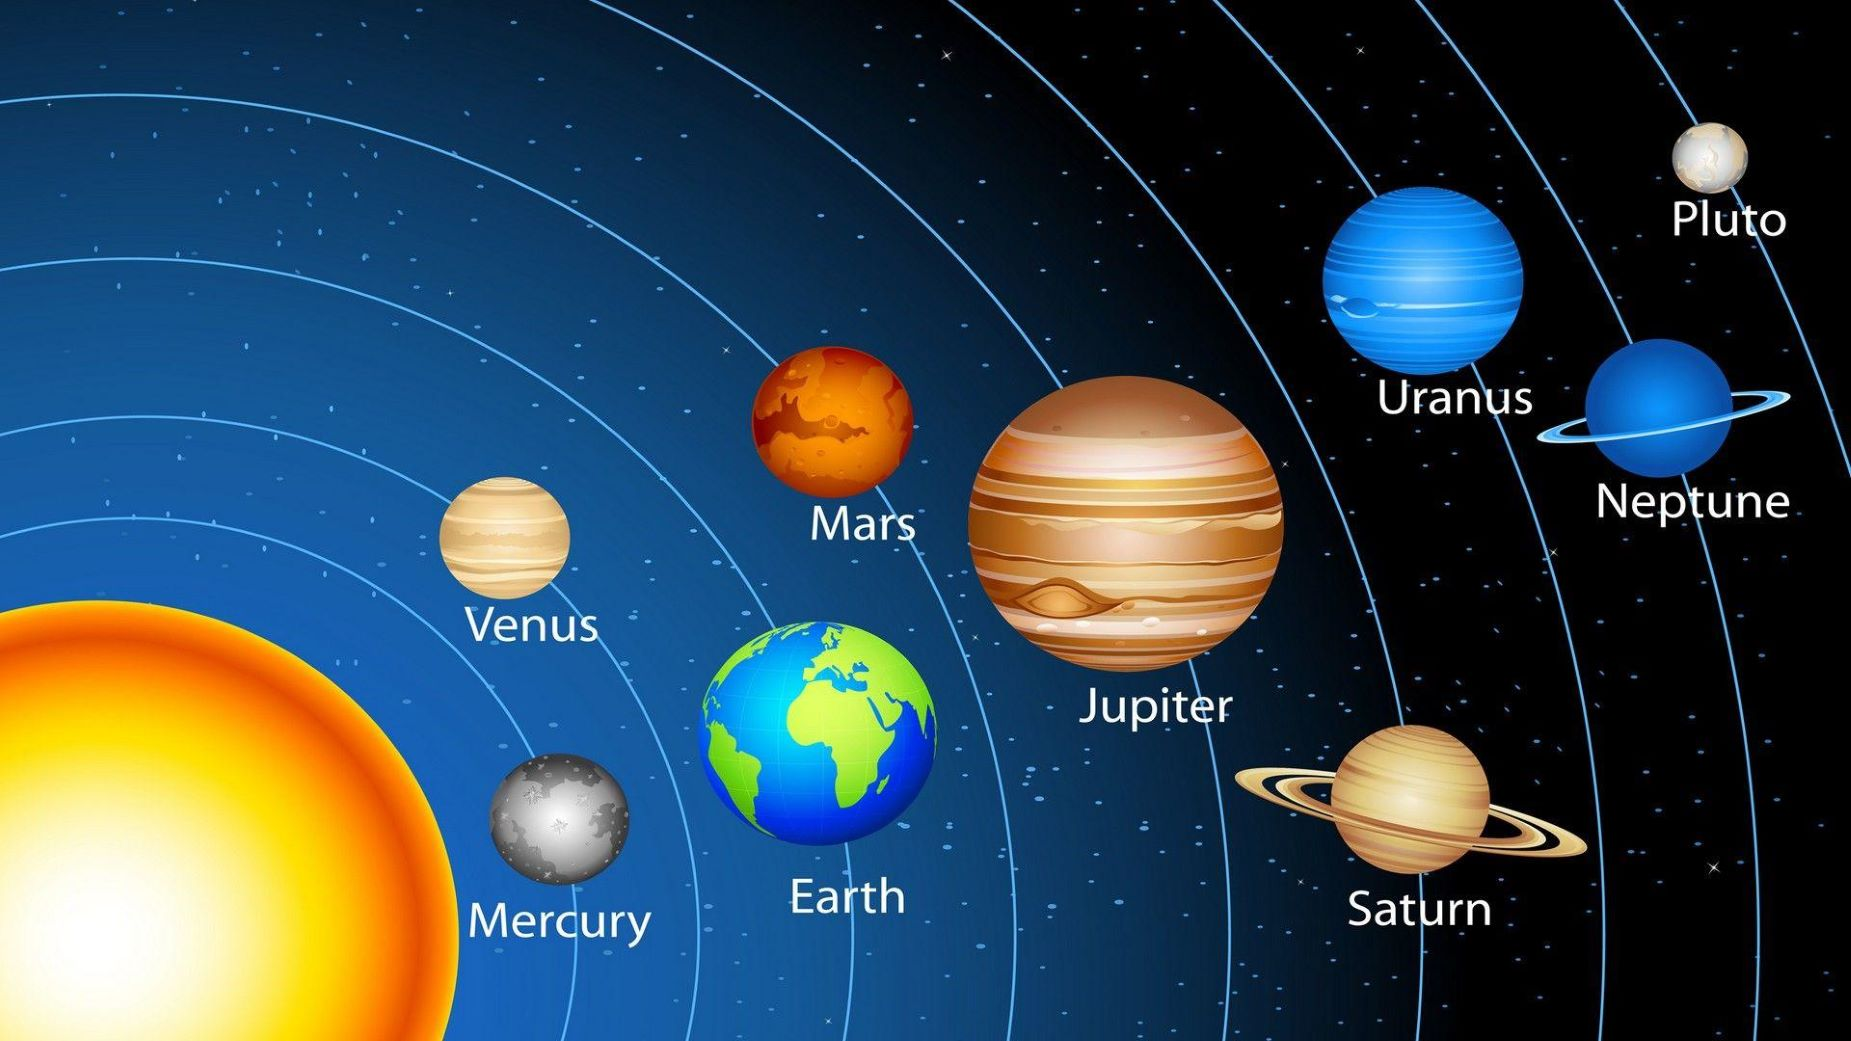
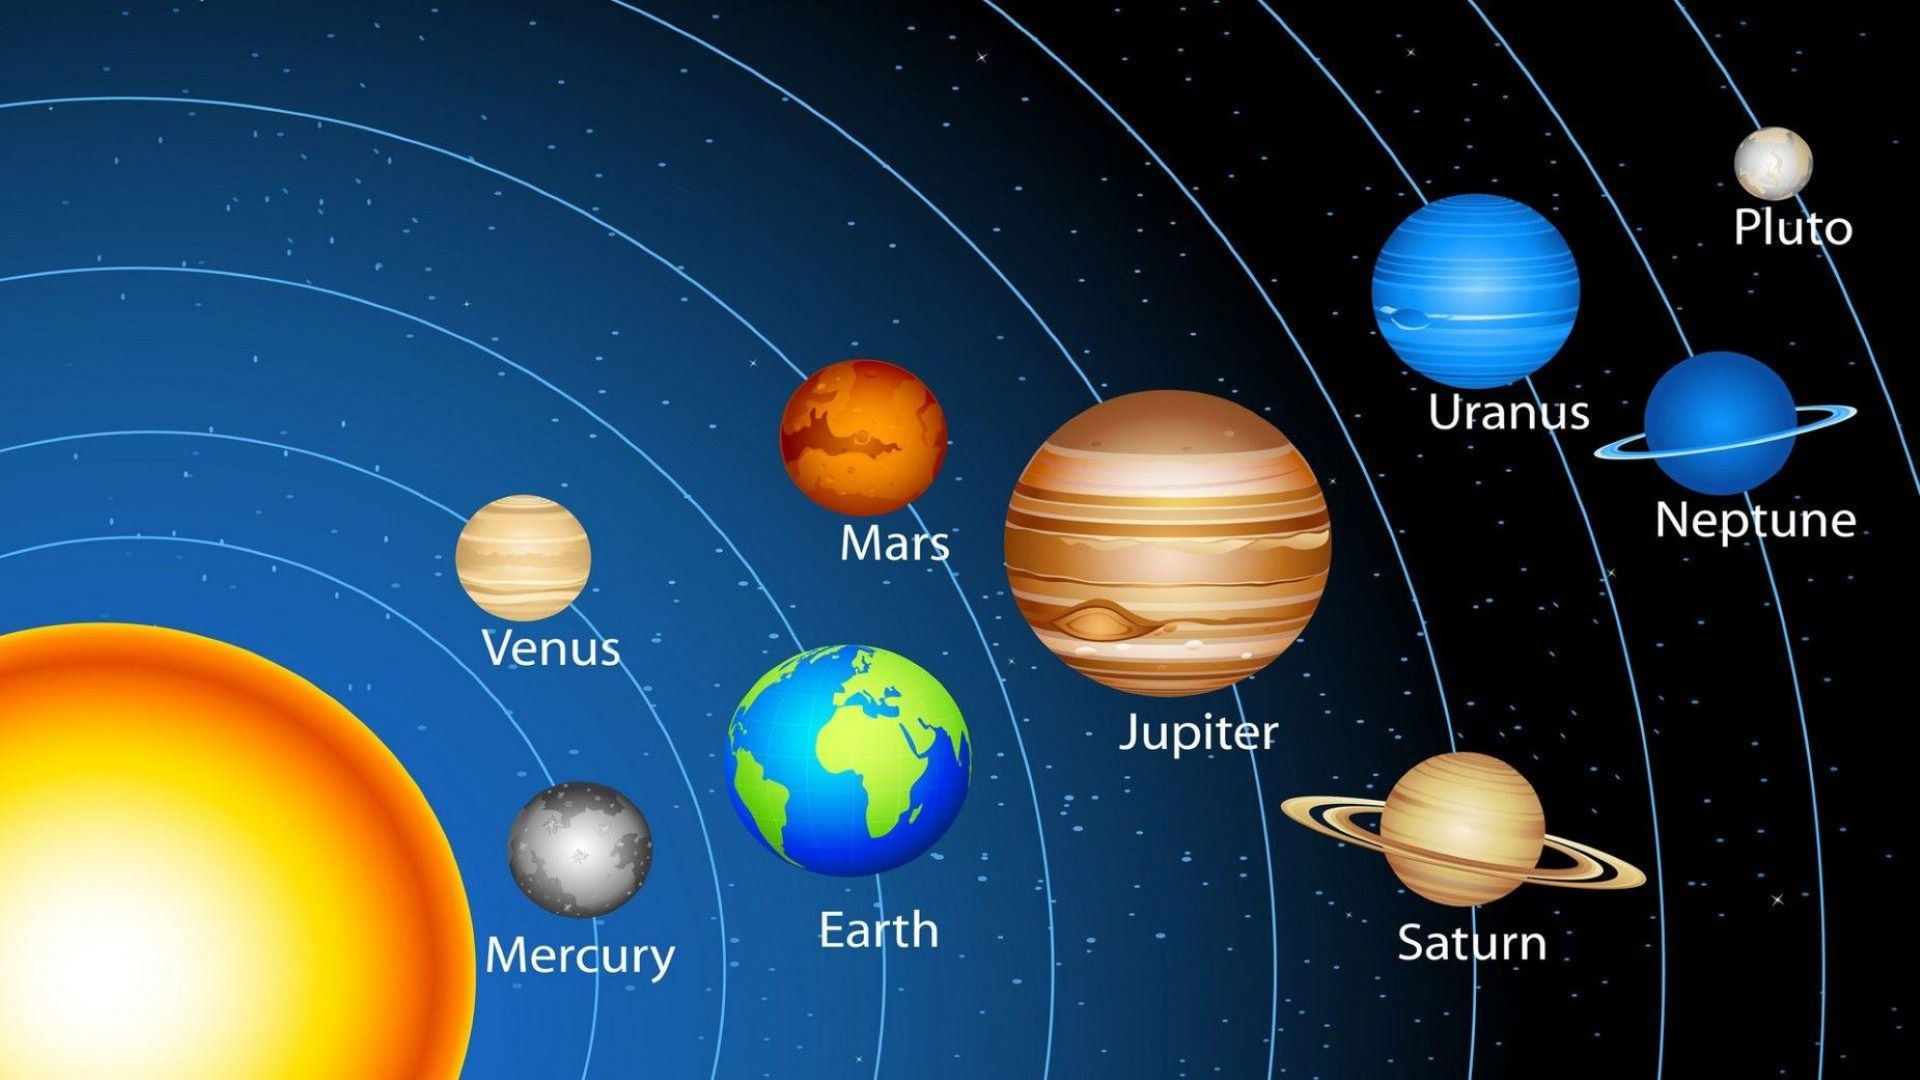
Add files via upload

diff --git a/solarsystem.html b/solarsystem.html
@@ -1,27 +1,35 @@
 <!DOCTYPE html>
-<html>
+<html lang="en">
 <head>
-<title>Solar system</title>
+    <meta charset="UTF-8">
+    <meta name="viewport" content="width=device-width, initial-scale=1.0">
+    <title>Document</title>
 </head>
 <body>
+    <h1 style="text-align:center";>THE SOLAR SYSTEM</h1>
+    
 
-<h1 style="text-align : center;">The Solar System</h1>
+
+
 <!-- Image Map Generated by http://www.image-map.net/ -->
 <img src="the solar system.jpg" usemap="#image-map">
 
 <map name="image-map">
-    <area target="_blank" alt="SUN" title="SUN" href="https://en.wikipedia.org/wiki/Sun" coords="10,1071,-2,877,-2,638,224,645,419,794,434,1074,244,1074" shape="poly">
-    <area target="_blank" alt="MERCURY" title="MERCURY" href="https://en.wikipedia.org/wiki/mercury_planet" coords="581,842,77" shape="circle">
-    <area target="_blank" alt="VENUS" title="VENUS" href="https://en.wikipedia.org/wiki/VENUS" coords="517,557,75" shape="circle">
-    <area target="_blank" alt="EARTH" title="EARTH" href="https://en.wikipedia.org/wiki/EARTH" coords="846,764,129" shape="circle">
-    <area target="_blank" alt="MARS" title="MARS" href="https://en.wikipedia.org/wiki/MARS" coords="859,431,88" shape="circle">
-    <area target="_blank" alt="JUPITER" title="JUPITER" href="https://en.wikipedia.org/wiki/JUPITER" coords="1169,543,165" shape="circle">
-    <area target="_blank" alt="URANUS" title="URANUS" href="https://en.wikipedia.org/wiki/URANUS" coords="1474,291,104" shape="circle">
-    <area target="_blank" alt="SATURN" title="SATURN" href="https://en.wikipedia.org/wiki/SATURN" coords="1456,842,91" shape="circle">
-    <area target="_blank" alt="NEPTUNE" title="NEPTUNE" href="https://en.wikipedia.org/wiki/NEPTUNE" coords="1715,425,80" shape="circle">
-    <area target="_blank" alt="PLUTO" title="PLUTO" href="https://en.wikipedia.org/wiki/PLUTO" coords="1771,165,42" shape="circle">
+    <area target="_blank" alt="sun" title="sun" href="https://en.wikipedia.org/wiki/Sun" coords="197,880,287" shape="circle">
+    <area target="_blank" alt="mercury" title="mercury" href="https://en.wikipedia.org/wiki/mercury_planet" coords="576,854,69" shape="circle">
+    <area target="_blank" alt="venus" title="venus" href="https://en.wikipedia.org/wiki/venus" coords="519,563,63" shape="circle">
+    <area target="_blank" alt="earth" title="earth" href="https://en.wikipedia.org/wiki/earth" coords="842,763,128" shape="circle">
+    <area target="_blank" alt="mars" title="mars" href="https://en.wikipedia.org/wiki/mars" coords="864,439,83" shape="circle">
+    <area target="_blank" alt="jupiter" title="jupiter" href="https://en.wikipedia.org/wiki/jupiter" coords="1164,531,171" shape="circle">
+    <area target="_blank" alt="saturn" title="saturn" href="https://en.wikipedia.org/wiki/saturn" coords="1468,834,88" shape="circle">
+    <area target="_blank" alt="neptune" title="neptune" href="https://en.wikipedia.org/wiki/neptune" coords="1730,427,84" shape="circle">
+    <area target="_blank" alt="uranus" title="uranus" href="https://en.wikipedia.org/wiki/uranus" coords="1473,291,106" shape="circle">
+    <area target="_blank" alt="pluto" title="pluto" href="https://en.wikipedia.org/wiki/pluto" coords="NaN" shape="circle">
 </map>
- <footer style="text-align: center;"> <a href="D:\html\index.html">index </a>
-           <a href="./resume.html">resume</a>
+
+<div style="text-align: center;">
+<a href="./index.html">index</a>
+<a href="./resume.html">Resume</a>
 </body>
+
 </html>
